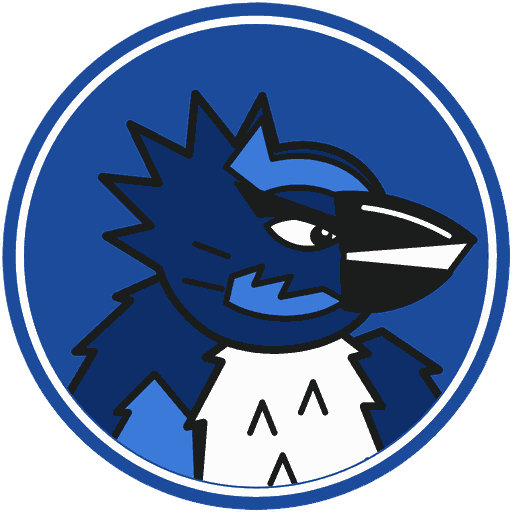
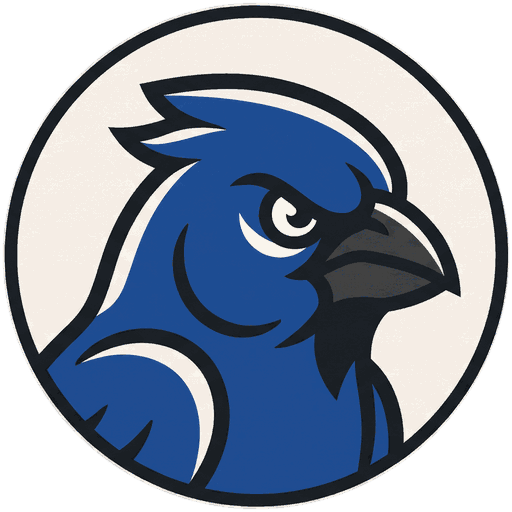
feat: mascote do nano banana na azulão news

diff --git a/docs/features/identidade-visual-times.md b/docs/features/identidade-visual-times.md
@@ -54,13 +54,8 @@ python scripts/make_brand.py brand_src/vasco.jpg src/geral/static/vasco Almirant
 python scripts/make_brand.py brand_src/palmeiras.jpg src/geral/static/palmeiras Porco News "#006437" "#1C1C1C" Palmeiras --circle
 python scripts/make_brand.py brand_src/abc.jpg src/geral/static/abc Elefante News "#141414" "#6B6B6B" ABC
 python scripts/make_brand.py brand_src/nautico.jpg src/geral/static/nautico Timbu News "#C60000" "#1C1C1C" Náutico --circle
-python scripts/make_brand.py brand_src/csa.png src/geral/static/csa Azulão News "#1B4B9B" "#1C1C1C" CSA --circle
+python scripts/make_brand.py brand_src/csa.jpg src/geral/static/csa Azulão News "#1B4B9B" "#1C1C1C" CSA --circle
 ```
-
-O ícone do CSA é **provisório**: foi desenhado à mão em SVG (`scripts/brand/csa.svg`, com o
-quadriculado que o script espera em volta do círculo) e renderizado em PNG no Chromium, porque a
-sessão não tinha o Nano Banana. Para trocar, gerar o ícone com o prompt abaixo, salvar em
-`brand_src/csa.png` e rodar a linha acima.
 
 ## Prompts (Nano Banana)
 

diff --git a/docs/TASKS.md b/docs/TASKS.md
@@ -39,8 +39,8 @@ Ordem de execução. Cada fatia vira um PR; a página da fatia fica em `docs/fea
 ## Fatia 2c — Novas torcidas
 - [x] CSA (Azulão News): Série D e Alagoano pelo ge, gols pela CBF, seções especiais; notícias que citam a Mancha Azul ficam de fora (`exclude_terms`)
 - [x] CSA: notícias das categorias de base (sub-20, sub-17, sub-15) no "Saiba mais"
-- [ ] CSA: trocar o ícone provisório (SVG) por um do Nano Banana (`docs/features/identidade-visual-times.md`)
-- [ ] CSA: caixa `azulao@` do remetente (conta Google criada pelo dono)
+- [x] CSA: ícone do Nano Banana no lugar do provisório (`docs/features/identidade-visual-times.md`)
+- [x] CSA: caixa `azulao@` do remetente (conta Google criada pelo dono)
 
 ## Fatia 3 — Pedido de time e ranking de torcidas
 - [x] Formulário "meu time não está aqui" (time + e-mail opcional para avisar quando nascer) e os mais pedidos (`docs/features/pedido-de-time.md`)
